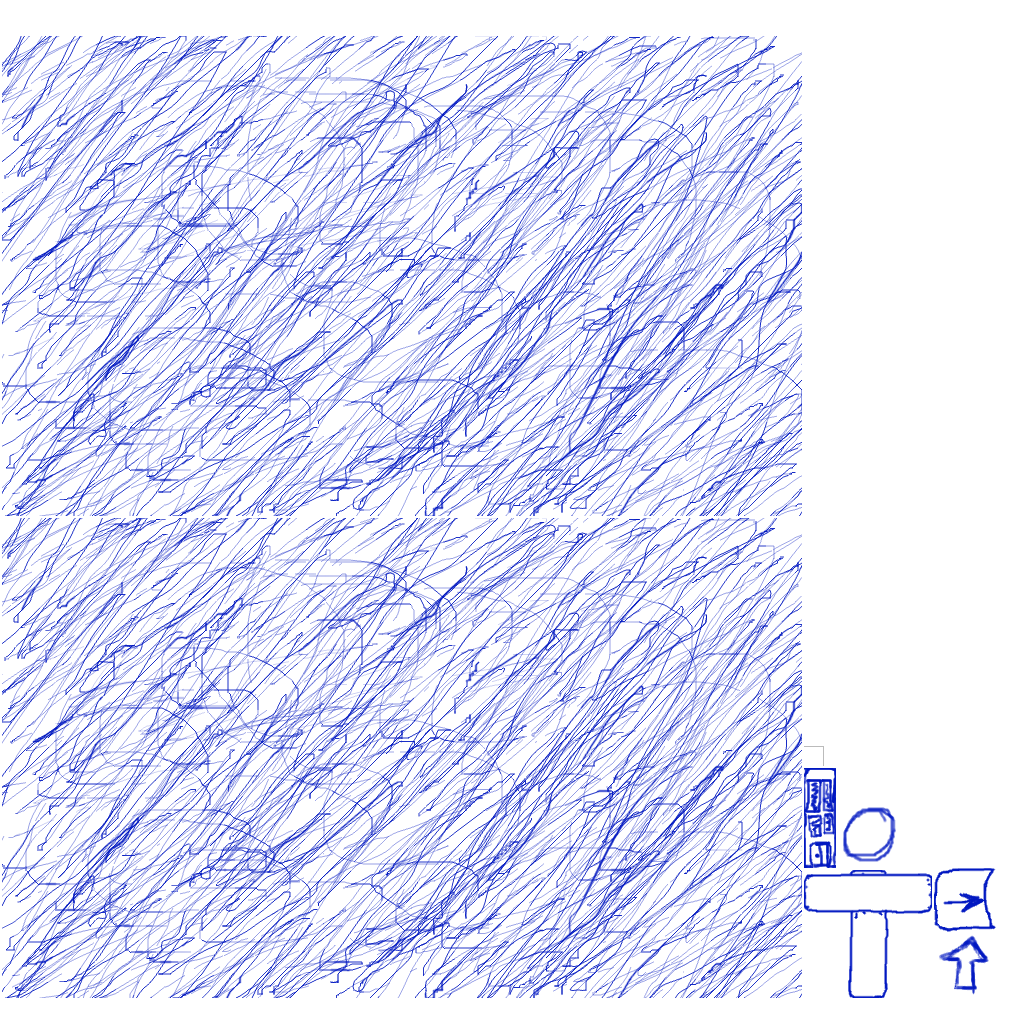
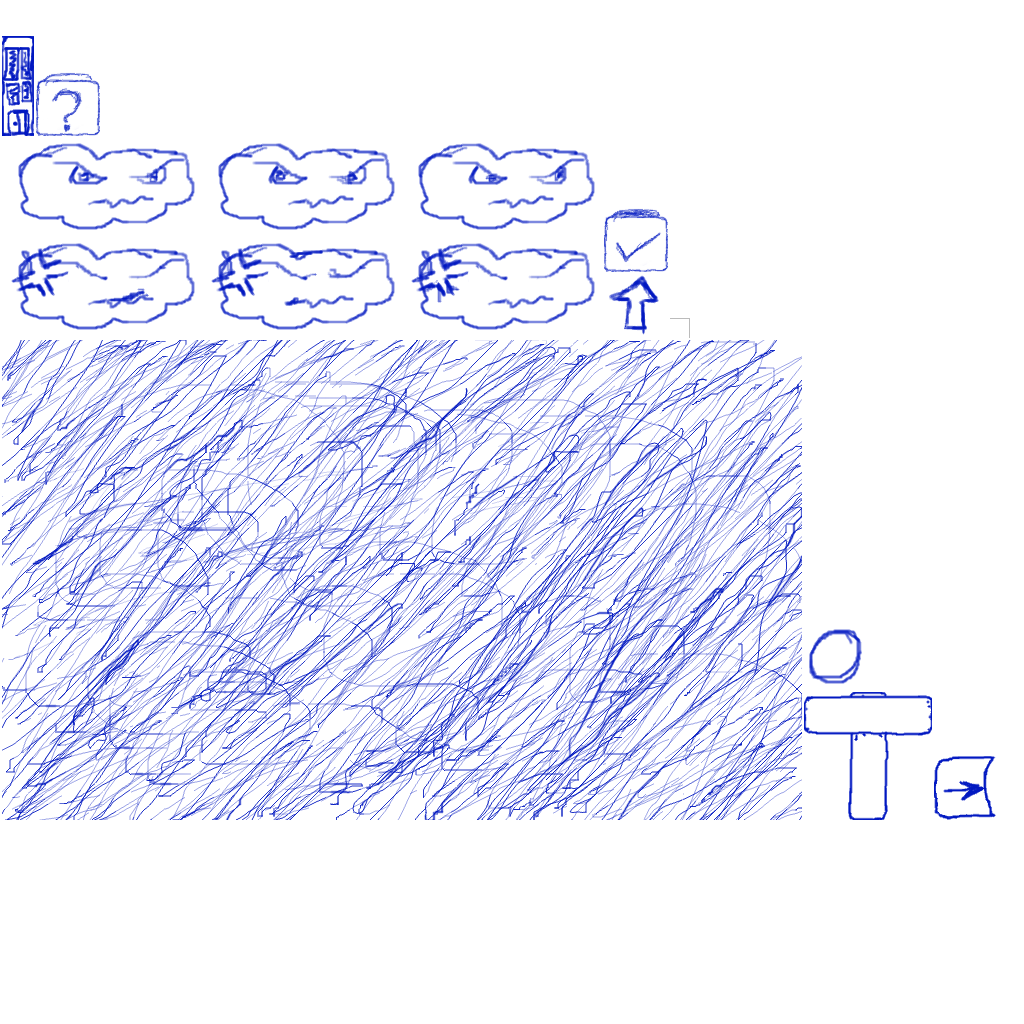
added trigger and level 9

diff --git a/Main/src/com/alex/rain/models/Trigger.java b/Main/src/com/alex/rain/models/Trigger.java
@@ -1,0 +1,91 @@
+/*******************************************************************************
+ * Copyright 2013 See AUTHORS file.
+ *
+ * Licensed under the GNU GENERAL PUBLIC LICENSE V3
+ * you may not use this file except in compliance with the License.
+ * You may obtain a copy of the License at http://www.gnu.org/licenses/gpl.html
+ *
+ * Unless required by applicable law or agreed to in writing, software
+ * distributed under the License is distributed on an "AS IS" BASIS,
+ * WITHOUT WARRANTIES OR CONDITIONS OF ANY KIND, either express or implied.
+ * See the License for the specific language governing permissions and
+ * limitations under the License.
+ ******************************************************************************/
+package com.alex.rain.models;
+
+import com.alex.rain.managers.TextureManager;
+import com.alex.rain.stages.GameWorld;
+import com.badlogic.gdx.math.Vector2;
+import com.badlogic.gdx.physics.box2d.*;
+import com.badlogic.gdx.physics.box2d.joints.DistanceJoint;
+import com.badlogic.gdx.physics.box2d.joints.DistanceJointDef;
+import finnstr.libgdx.liquidfun.ParticleSystem;
+
+public class Trigger extends SimpleActor {
+    private DistanceJoint distanceJoint;
+
+    public Trigger() {
+        sprite = TextureManager.getSpriteFromDefaultAtlas("game_button_off");
+        setBodyBox(64, 64);
+        type = TYPE.TRIGGER;
+    }
+
+    @Override
+    public void createPhysicsActor(ParticleSystem particleSystem, World physicsWorld) {
+        super.createPhysicsActor(particleSystem, physicsWorld);
+
+        PolygonShape polygonShape = new PolygonShape();
+        polygonShape.setAsBox(getPhysicsWidth() / 2, getPhysicsHeight() / 2.4f,
+                new Vector2(0, getPhysicsHeight() / -15f), 0);
+
+        offset.set(-getWidth() / 2, -getHeight() / 2);
+        sprite.setOrigin(getWidth() / 2, getHeight() / 2);
+
+        FixtureDef fixtureDef = new FixtureDef();
+        fixtureDef.shape = polygonShape;
+        fixtureDef.density = 1;
+        fixtureDef.friction = 10.4f;
+
+        BodyDef bodyDef = new BodyDef();
+        bodyDef.position.set(pos.cpy().scl(GameWorld.WORLD_TO_BOX));
+        bodyDef.type = BodyDef.BodyType.DynamicBody;
+        body = physicsWorld.createBody(bodyDef);
+        body.createFixture(fixtureDef);
+        body.resetMassData();
+
+        polygonShape.dispose();
+
+        polygonShape = new PolygonShape();
+        polygonShape.setAsBox(getPhysicsWidth() / 3, getPhysicsHeight() / 20f,
+                new Vector2(0, getPhysicsHeight() / 1.33f), 0);
+
+        offset.set(-getWidth() / 2, -getHeight() / 2);
+        sprite.setOrigin(getWidth() / 2, getHeight() / 2);
+
+        fixtureDef = new FixtureDef();
+        fixtureDef.shape = polygonShape;
+        fixtureDef.density = 1;
+        fixtureDef.friction = 10.4f;
+
+        bodyDef = new BodyDef();
+        bodyDef.position.set(pos.cpy().scl(GameWorld.WORLD_TO_BOX));
+        bodyDef.type = BodyDef.BodyType.DynamicBody;
+        Body topBody = physicsWorld.createBody(bodyDef);
+        topBody.createFixture(fixtureDef);
+        topBody.resetMassData();
+
+        polygonShape.dispose();
+
+        DistanceJointDef distanceJointDef = new DistanceJointDef();
+        distanceJointDef.initialize(body, topBody,
+                pos.cpy().scl(GameWorld.WORLD_TO_BOX), pos.cpy().add(0, getPhysicsHeight() / 2).scl(GameWorld.WORLD_TO_BOX));
+        distanceJoint = (DistanceJoint)physicsWorld.createJoint(distanceJointDef);
+    }
+
+    @Override
+    public void act(float delta) {
+        super.act(delta);
+        /*System.out.println(getBody().getJointList().get(0).joint.);
+        Joint*/
+    }
+}

diff --git a/Main/src/com/alex/rain/stages/GameWorld.java b/Main/src/com/alex/rain/stages/GameWorld.java
@@ -548,7 +548,7 @@ public class GameWorld extends Stage {
         } else if(pressingAction == TouchType.PICKING_BODIES) {
             SimpleActor targetActor = null;
             for(SimpleActor actor : actorList) {
-                if(actor.getType() == SimpleActor.TYPE.BALL && actor.isInAABB(cursorPosition)) {
+                if((actor.getType() == SimpleActor.TYPE.BALL || actor.getType() == SimpleActor.TYPE.TRIGGER) && actor.isInAABB(cursorPosition)) {
                     targetActor = actor;
                     break;
                 }
@@ -593,13 +593,14 @@ public class GameWorld extends Stage {
         if(winnerWindow != null)
             return true;
 
-        if(cursorPosition != null)
+        if(cursorPosition != null) {
             cursorPosition.set(getCursorPosition(screenX, screenY));
 
-        if(mouseJoint != null) {
-            cursorPosition.scl(WORLD_TO_BOX);
-            mouseJoint.setTarget(cursorPosition);
-            cursorPosition.scl(BOX_TO_WORLD);
+            if(mouseJoint != null) {
+                cursorPosition.scl(WORLD_TO_BOX);
+                mouseJoint.setTarget(cursorPosition);
+                cursorPosition.scl(BOX_TO_WORLD);
+            }
         }
 
         if(wonGame || cloud != null || emitter != null || dropList.size() > dropsMax)

diff --git a/Main/src/com/alex/rain/models/SimpleActor.java b/Main/src/com/alex/rain/models/SimpleActor.java
@@ -41,7 +41,8 @@ public abstract class SimpleActor extends Actor {
         EMITTER,
         HOUSE,
         HAMMER,
-        BALL
+        BALL,
+        TRIGGER
     }
 
     public void createPhysicsActor(ParticleSystem particleSystem, World physicsWorld) {
